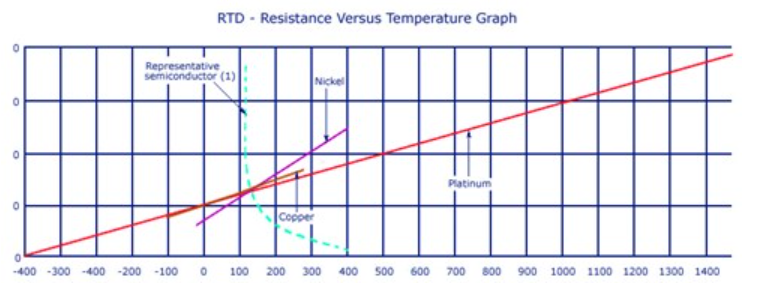
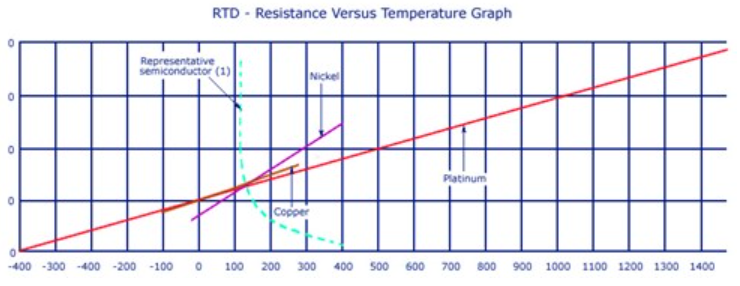
Add 7 source screenshots and capacitance symbol figures, preserve RTD question variants

diff --git a/cauhoi_thong/README.md b/cauhoi_thong/README.md
@@ -73,3 +73,9 @@ Mỗi phần tử `questions` có `id` (bắt đầu `C001`), `topic`, `type`, `
 - 8 screenshot gốc và 2 hình cắt trực tiếp trong `figures/` đã được lưu. C054 và C192 lưu ảnh thay đổi thứ tự lựa chọn, không tạo câu trùng.
 - Đáp án từng mã câu được trình bày tại [`dap_an_dot4.md`](dap_an_dot4.md). Những câu học thuật thiếu điều kiện hoặc có nhiều đáp án phù hợp giữ `review_status: needs_review`.
 - Các câu trùng với thứ tự radio khác nhau được thêm vào `option_variants`, bảo đảm có thể tái hiện form gốc.
+
+## Đợt 5 — Hình điện dung & ký hiệu (13/11/2026)
+
+- Thêm `C267–C270`: 2 câu điện dung có hình, 1 câu ghép ký hiệu, 1 câu đơn vị ứng suất. 3 ảnh mới về RTD được lưu làm `option_variants` cho `C194–C196`, không tạo trùng.
+- 7 ảnh gốc được lưu trong `screenshots/`; 5 hình được cắt trực tiếp, trong đó thay thế 2 hình RTD cũ bằng vùng cắt từ ảnh mới nhất.
+- Các câu không đủ dữ kiện để chọn một đáp án duy nhất được đánh dấu `review_status=needs_review`.

diff --git a/cauhoi_thong/IMAGE_SOURCES.md b/cauhoi_thong/IMAGE_SOURCES.md
@@ -12,3 +12,13 @@
 | --- | --- | --- |
 | rtd-comparison-graph.png | original-062150.png | (18,129,784,418) |
 | rtd-three-equations.png | original-062329.png | (35,85,623,320) |
+
+## Đợt 5 — Cắt mới từ đề (13/11/2026)
+
+| Hình cắt | Ảnh đề | Vùng crop (left, top, right, bottom), px |
+| --- | --- | --- |
+| rtd-comparison-graph.png | original-063611.png | (38,148,778,434) |
+| rtd-three-equations.png | original-063619.png | (25,80,590,305) |
+| capacitive-proximity-geometry.png | original-063658.png | (48,88,895,327) |
+| capacitive-capacitance-variation.png | original-064122.png | (32,93,875,410) |
+| sensor-symbols-1-6.png | original-064325.png | (27,119,761,553) |

diff --git a/cauhoi_thong/screenshots/README.md b/cauhoi_thong/screenshots/README.md
@@ -5,3 +5,5 @@ Lưu screenshot gốc của câu hỏi mới, bao gồm cả form lựa chọn v
 Đợt 3: ảnh gốc original-055322.png, original-055520.png, original-060055.png, original-060330.png, original-060451.png, original-060659.png, original-060731.png, original-060749.png, original-060902.png.
 
 Đợt 4: 8 ảnh nguyên gốc original-062026.png, original-062054.png, original-062117.png, original-062150.png, original-062329.png, original-062342.png, original-062404.png, original-063045.png.
+
+Đợt 5: original-063611.png, original-063619.png, original-063630.png, original-063658.png, original-064122.png, original-064325.png, original-064907.png.
